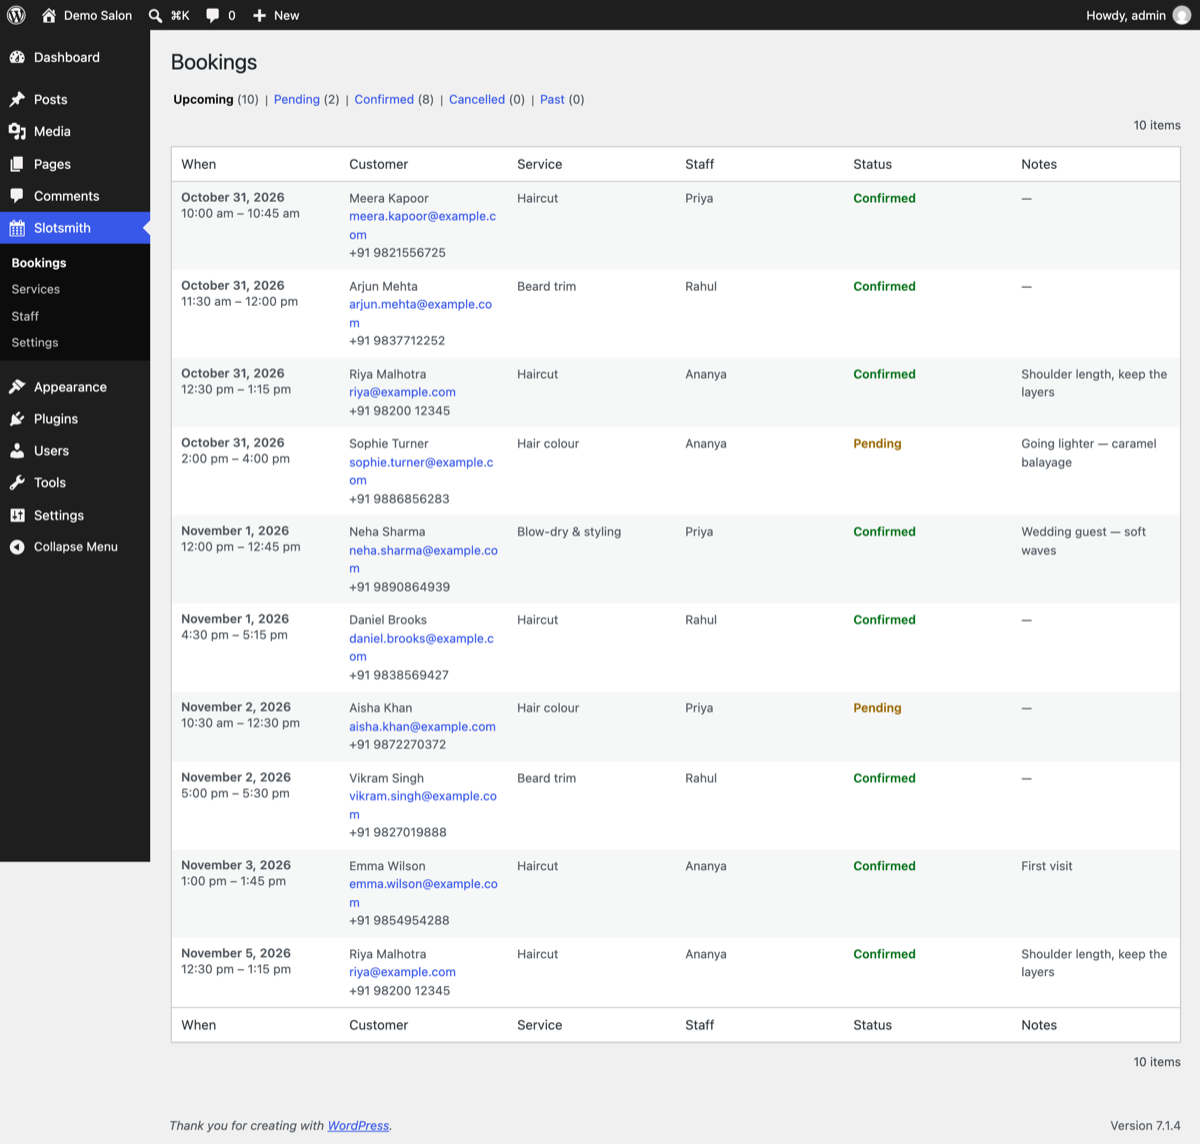
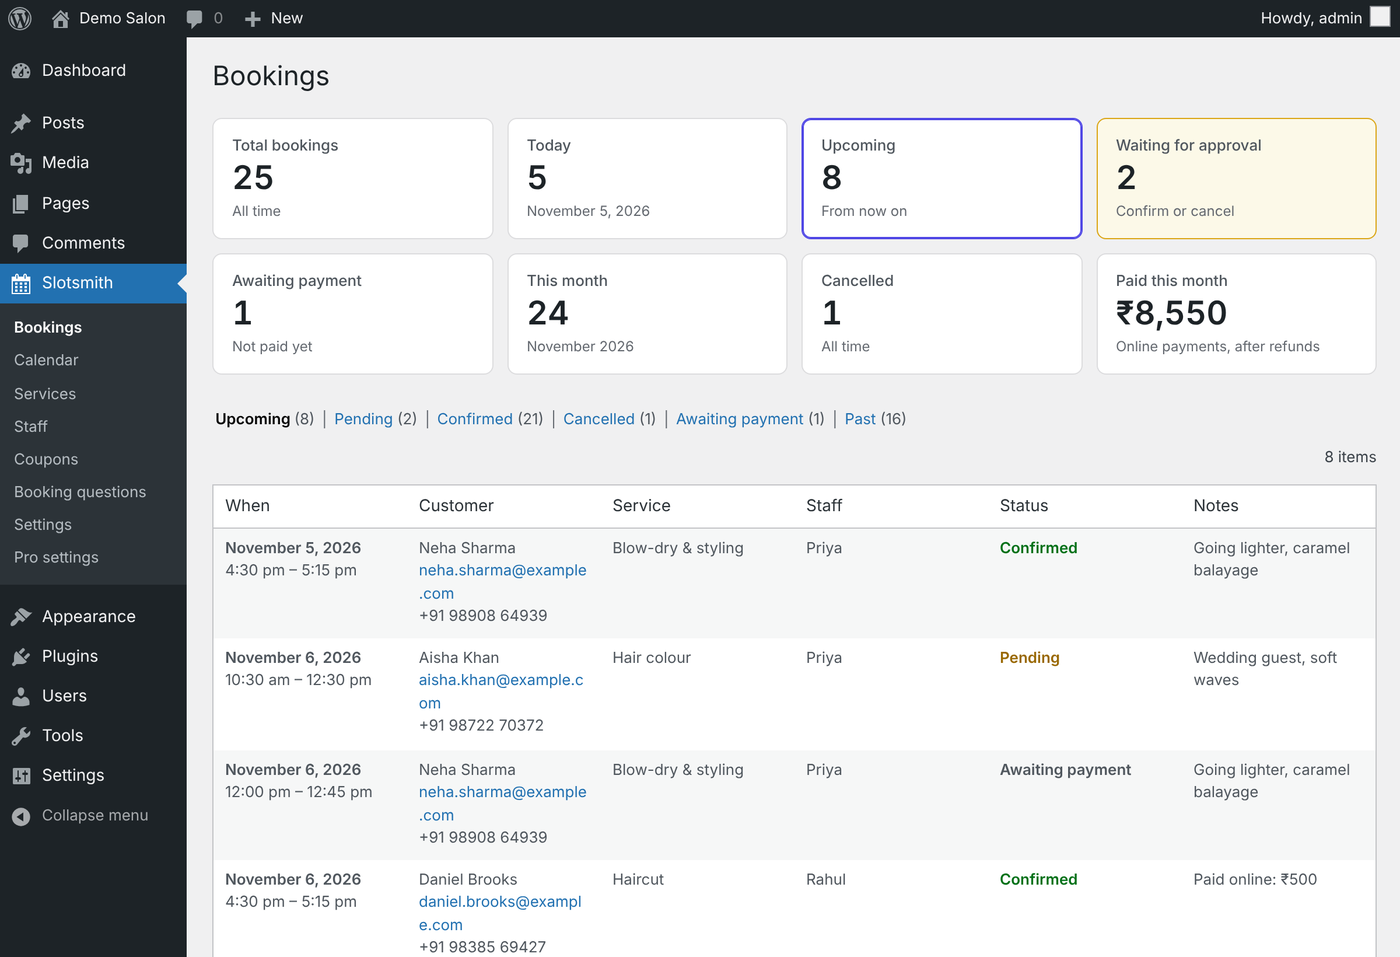
Slotsmith site: new Bookings screenshot with summary cards
Claude-Session: https://claude.ai/code/session_013K4xnLBvJHgVK2mhbRP5pk

diff --git a/external/slotsmith-site/index.html b/external/slotsmith-site/index.html
@@ -312,7 +312,7 @@ footer a:hover { color: var(--ink); }
 				<div class="text">
 					<span class="eyebrow">Run your day</span>
 					<h3>Every booking in one clear place</h3>
-					<p>Upcoming, pending and past bookings at a glance. Confirm or cancel in one click — the client gets an email automatically.</p>
+					<p>Summary cards for today, upcoming, waiting for approval and this month's payments, then every booking below. Confirm or cancel in one click — the client gets an email automatically.</p>
 					<ul class="ticks">
 						<li>Approve bookings yourself, or auto-confirm</li>
 						<li>Emails to the client, the staff member and you</li>
@@ -320,7 +320,7 @@ footer a:hover { color: var(--ink); }
 						<li>Minimum notice and booking window rules</li>
 					</ul>
 				</div>
-				<img class="shot" src="/assets/shot-6.png" alt="Bookings list in the WordPress dashboard" loading="lazy" width="1200" height="1074">
+				<img class="shot" src="/assets/shot-6.png" alt="Slotsmith Bookings screen in WordPress with summary cards for total, today, upcoming, waiting for approval, awaiting payment, this month, cancelled and paid this month, above the bookings list" loading="lazy" width="1400" height="957">
 			</div>
 		</div>
 	</section>
